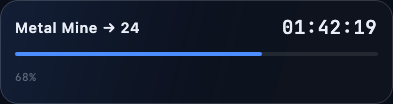
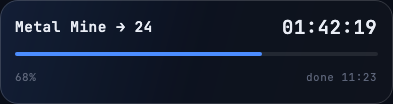
feat(colony): hero card shows the local completion time
The mapper takes the time zone as a parameter (the shell passes the system
default at the boundary); kotlinx-datetime enters the client for the
instant-to-local conversion. in_progress_card baseline re-recorded (intended).

Changed region(s): [[0.0305, 0.2019, 0.3969, 0.3173], [0.7634, 0.6923, 0.9771, 0.7788]]

diff --git a/client/colony/presentation/src/commonTest/kotlin/dev/fardavide/oltre/client/colony/presentation/ColonyUiStateTest.kt b/client/colony/presentation/src/commonTest/kotlin/dev/fardavide/oltre/client/colony/presentation/ColonyUiStateTest.kt
@@ -15,6 +15,7 @@ import kotlin.test.assertIs
 import kotlin.time.Duration.Companion.milliseconds
 import kotlin.time.Duration.Companion.minutes
 import kotlin.time.Instant
+import kotlinx.datetime.TimeZone
 
 class ColonyUiStateTest {
 
@@ -24,7 +25,7 @@ class ColonyUiStateTest {
         val state = GameState(resources = Resources.of(metal = 482_910), buildings = Buildings.initial(), buildQueue = null, eventLog = emptyList())
 
         // when
-        val uiState = state.toColonyUiState(now = Instant.fromEpochMilliseconds(0))
+        val uiState = state.toColonyUiState(now = Instant.fromEpochMilliseconds(0), timeZone = TimeZone.UTC)
 
         // then
         assertEquals("482,910", uiState.metal)
@@ -41,7 +42,7 @@ class ColonyUiStateTest {
         )
 
         // when
-        val uiState = state.toColonyUiState(now = Instant.fromEpochMilliseconds(0))
+        val uiState = state.toColonyUiState(now = Instant.fromEpochMilliseconds(0), timeZone = TimeZone.UTC)
 
         // then
         assertEquals("+7,200/h", uiState.metalRatePerHour)
@@ -58,7 +59,7 @@ class ColonyUiStateTest {
         )
 
         // when
-        val uiState = state.toColonyUiState(now = Instant.fromEpochMilliseconds(0))
+        val uiState = state.toColonyUiState(now = Instant.fromEpochMilliseconds(0), timeZone = TimeZone.UTC)
 
         // then
         assertEquals("2,000", uiState.crystal)
@@ -78,7 +79,7 @@ class ColonyUiStateTest {
         )
 
         // when
-        val metalMine = state.toColonyUiState(now = Instant.fromEpochMilliseconds(0))
+        val metalMine = state.toColonyUiState(now = Instant.fromEpochMilliseconds(0), timeZone = TimeZone.UTC)
             .facilities.first { it.building == BuildingType.METAL_MINE }
 
         // then
@@ -100,7 +101,7 @@ class ColonyUiStateTest {
         val state = GameState.initial()
 
         // when
-        val robotics = state.toColonyUiState(now = Instant.fromEpochMilliseconds(0))
+        val robotics = state.toColonyUiState(now = Instant.fromEpochMilliseconds(0), timeZone = TimeZone.UTC)
             .facilities.first { it.building == BuildingType.ROBOTICS_FACTORY }
 
         // then
@@ -125,7 +126,7 @@ class ColonyUiStateTest {
         )
 
         // when
-        val synth = state.toColonyUiState(now = Instant.fromEpochMilliseconds(0))
+        val synth = state.toColonyUiState(now = Instant.fromEpochMilliseconds(0), timeZone = TimeZone.UTC)
             .facilities.first { it.building == BuildingType.DEUTERIUM_SYNTHESIZER }
 
         // then
@@ -143,7 +144,7 @@ class ColonyUiStateTest {
         )
 
         // when
-        val metalMine = state.toColonyUiState(now = Instant.fromEpochMilliseconds(0))
+        val metalMine = state.toColonyUiState(now = Instant.fromEpochMilliseconds(0), timeZone = TimeZone.UTC)
             .facilities.first { it.building == BuildingType.METAL_MINE }
 
         // then
@@ -156,7 +157,7 @@ class ColonyUiStateTest {
         val state = GameState.initial()
 
         // when
-        val metalMine = state.toColonyUiState(now = Instant.fromEpochMilliseconds(0))
+        val metalMine = state.toColonyUiState(now = Instant.fromEpochMilliseconds(0), timeZone = TimeZone.UTC)
             .facilities.first { it.building == BuildingType.METAL_MINE }
 
         // then
@@ -174,7 +175,7 @@ class ColonyUiStateTest {
         )
 
         // when
-        val robotics = state.toColonyUiState(now = Instant.fromEpochMilliseconds(0))
+        val robotics = state.toColonyUiState(now = Instant.fromEpochMilliseconds(0), timeZone = TimeZone.UTC)
             .facilities.first { it.building == BuildingType.ROBOTICS_FACTORY }
 
         // then
@@ -192,7 +193,7 @@ class ColonyUiStateTest {
         )
 
         // when
-        val nanite = state.toColonyUiState(now = Instant.fromEpochMilliseconds(0))
+        val nanite = state.toColonyUiState(now = Instant.fromEpochMilliseconds(0), timeZone = TimeZone.UTC)
             .facilities.first { it.building == BuildingType.NANITE_FACTORY }
 
         // then
@@ -212,7 +213,7 @@ class ColonyUiStateTest {
         ).state
 
         // when
-        val card = started.toColonyUiState(now = t0 + 5.minutes).inProgress
+        val card = started.toColonyUiState(now = t0 + 5.minutes, timeZone = TimeZone.UTC).inProgress
 
         // then
         assertEquals(
@@ -220,9 +221,29 @@ class ColonyUiStateTest {
                 title = "Metal Mine → 2",
                 countdown = "00:15:00",
                 progressPercent = 25,
+                doneAt = "done 00:20",
             ),
             checkNotNull(card),
         )
+    }
+
+    @Test
+    fun `the in-progress card shows the local completion time`() {
+        // given a 20-minute build started 2026-08-06T10:00Z, viewed from UTC+2
+        val t0 = Instant.parse("2026-08-06T10:00:00Z")
+        val cost = PlaceholderBalance.upgradeCost(BuildingType.METAL_MINE, BuildingLevel(2))
+        val funded = GameState.initial().copy(
+            resources = Resources.of(metal = cost.metal, crystal = cost.crystal),
+        )
+        val started = assertIs<StartUpgradeResult.Started>(
+            startUpgrade(funded, BuildingType.METAL_MINE, at = t0),
+        ).state
+
+        // when
+        val card = started.toColonyUiState(now = t0, timeZone = TimeZone.of("Europe/Rome")).inProgress
+
+        // then
+        assertEquals("done 12:20", checkNotNull(card).doneAt)
     }
 
     @Test
@@ -239,7 +260,7 @@ class ColonyUiStateTest {
         val completesAt = checkNotNull(started.buildQueue).completesAt
 
         // when
-        val card = started.toColonyUiState(now = completesAt - 900.milliseconds).inProgress
+        val card = started.toColonyUiState(now = completesAt - 900.milliseconds, timeZone = TimeZone.UTC).inProgress
 
         // then
         assertEquals("00:00:01", checkNotNull(card).countdown)
@@ -251,7 +272,7 @@ class ColonyUiStateTest {
         val state = GameState.initial()
 
         // when
-        val card = state.toColonyUiState(now = Instant.fromEpochMilliseconds(0)).inProgress
+        val card = state.toColonyUiState(now = Instant.fromEpochMilliseconds(0), timeZone = TimeZone.UTC).inProgress
 
         // then
         assertEquals(null, card)

diff --git a/client/colony/presentation/src/commonMain/kotlin/dev/fardavide/oltre/client/colony/presentation/ColonyUiState.kt b/client/colony/presentation/src/commonMain/kotlin/dev/fardavide/oltre/client/colony/presentation/ColonyUiState.kt
@@ -9,6 +9,8 @@ import dev.fardavide.oltre.core.shortfallOf
 import dev.fardavide.oltre.core.timeUntilAffordable
 import kotlin.time.Duration
 import kotlin.time.Instant
+import kotlinx.datetime.TimeZone
+import kotlinx.datetime.toLocalDateTime
 
 data class ColonyUiState(
     val metal: String,
@@ -25,6 +27,7 @@ data class InProgressUiState(
     val title: String,
     val countdown: String,
     val progressPercent: Int,
+    val doneAt: String,
 )
 
 data class FacilityRowUiState(
@@ -48,7 +51,7 @@ sealed interface FacilityActionUiState {
     data class Locked(val reason: String) : FacilityActionUiState
 }
 
-fun GameState.toColonyUiState(now: Instant): ColonyUiState = ColonyUiState(
+fun GameState.toColonyUiState(now: Instant, timeZone: TimeZone): ColonyUiState = ColonyUiState(
     metal = resources.metal.groupedByThousands(),
     metalRatePerHour = "+${PlaceholderBalance.effectiveMetalProductionPerHour(buildings).groupedByThousands()}/h",
     crystal = resources.crystal.groupedByThousands(),
@@ -61,10 +64,12 @@ fun GameState.toColonyUiState(now: Instant): ColonyUiState = ColonyUiState(
         val elapsedMs = (now.toEpochMilliseconds() - job.startedAt.toEpochMilliseconds()).coerceIn(0, totalMs)
         val remainingMs = (job.completesAt.toEpochMilliseconds() - now.toEpochMilliseconds()).coerceAtLeast(0)
         val remainingSeconds = (remainingMs + 999) / 1000
+        val completesLocal = job.completesAt.toLocalDateTime(timeZone)
         InProgressUiState(
             title = "${job.building.displayName()} → ${job.toLevel.value}",
             countdown = remainingSeconds.toCountdown(),
             progressPercent = (elapsedMs * 100 / totalMs).toInt(),
+            doneAt = "done ${completesLocal.hour.pad2()}:${completesLocal.minute.pad2()}",
         )
     },
 )
@@ -77,6 +82,8 @@ private fun Long.toCountdown(): String {
 }
 
 private fun Long.pad2(): String = toString().padStart(2, '0')
+
+private fun Int.pad2(): String = toString().padStart(2, '0')
 
 private fun GameState.toFacilityRow(building: BuildingType): FacilityRowUiState {
     val level = buildings.levelOf(building)

diff --git a/client/colony/presentation/src/commonMain/kotlin/dev/fardavide/oltre/client/colony/presentation/InProgressCard.kt b/client/colony/presentation/src/commonMain/kotlin/dev/fardavide/oltre/client/colony/presentation/InProgressCard.kt
@@ -48,6 +48,7 @@ fun InProgressCard(uiState: InProgressUiState, modifier: Modifier = Modifier) {
                 Text(
                     text = uiState.title,
                     color = OltreColors.text,
+                    fontFamily = mono,
                     fontSize = 14.5.sp,
                     fontWeight = FontWeight.SemiBold,
                 )
@@ -74,12 +75,20 @@ fun InProgressCard(uiState: InProgressUiState, modifier: Modifier = Modifier) {
                     .background(OltreColors.accent, RoundedCornerShape(3.dp)),
             )
         }
-        Text(
-            text = "${uiState.progressPercent}%",
-            color = OltreColors.textTertiary,
-            fontFamily = mono,
-            fontSize = 11.sp,
-            modifier = Modifier.padding(top = 9.dp),
-        )
+        Row(modifier = Modifier.fillMaxWidth().padding(top = 9.dp)) {
+            Text(
+                text = "${uiState.progressPercent}%",
+                color = OltreColors.textTertiary,
+                fontFamily = mono,
+                fontSize = 11.sp,
+                modifier = Modifier.weight(1f),
+            )
+            Text(
+                text = uiState.doneAt,
+                color = OltreColors.textTertiary,
+                fontFamily = mono,
+                fontSize = 11.sp,
+            )
+        }
     }
 }

diff --git a/client/shell/src/commonMain/kotlin/dev/fardavide/oltre/client/App.kt b/client/shell/src/commonMain/kotlin/dev/fardavide/oltre/client/App.kt
@@ -20,6 +20,7 @@ import dev.fardavide.oltre.core.StartUpgradeResult
 import dev.fardavide.oltre.core.advance
 import dev.fardavide.oltre.core.startUpgrade
 import kotlinx.coroutines.delay
+import kotlinx.datetime.TimeZone
 import kotlin.time.Clock
 import kotlin.time.Duration.Companion.seconds
 import kotlin.time.Instant
@@ -44,7 +45,7 @@ fun App(modifier: Modifier = Modifier) {
                 }
             }
             ColonyScreen(
-                uiState = state.toColonyUiState(now = now),
+                uiState = state.toColonyUiState(now = now, timeZone = TimeZone.currentSystemDefault()),
                 onUpgrade = { building ->
                     val at = maxOf(Clock.System.now(), lastUpdated)
                     val current = advance(state, from = lastUpdated, to = at)

diff --git a/client/colony/presentation/src/commonMain/kotlin/dev/fardavide/oltre/client/colony/presentation/ColonyScreen.kt b/client/colony/presentation/src/commonMain/kotlin/dev/fardavide/oltre/client/colony/presentation/ColonyScreen.kt
@@ -11,8 +11,9 @@ import androidx.compose.ui.Modifier
 import androidx.compose.ui.unit.dp
 import androidx.compose.ui.unit.sp
 import androidx.compose.ui.text.font.FontWeight
-import dev.fardavide.oltre.core.BuildingType
 import dev.fardavide.oltre.client.design.OltreColors
+import dev.fardavide.oltre.client.design.oltreMono
+import dev.fardavide.oltre.core.BuildingType
 
 @Composable
 fun ColonyScreen(
@@ -43,6 +44,7 @@ private fun SectionLabel(text: String) {
     Text(
         text = text,
         color = OltreColors.textTertiary,
+        fontFamily = oltreMono(),
         fontSize = 10.5.sp,
         fontWeight = FontWeight.Bold,
         letterSpacing = 1.4.sp,

diff --git a/client/colony/presentation/src/desktopTest/kotlin/dev/fardavide/oltre/client/colony/presentation/InProgressCardScreenshotTest.kt b/client/colony/presentation/src/desktopTest/kotlin/dev/fardavide/oltre/client/colony/presentation/InProgressCardScreenshotTest.kt
@@ -24,6 +24,7 @@ class InProgressCardScreenshotTest {
                                 title = "Metal Mine → 24",
                                 countdown = "01:42:19",
                                 progressPercent = 68,
+                                doneAt = "done 11:23",
                             ),
                         )
                     }
